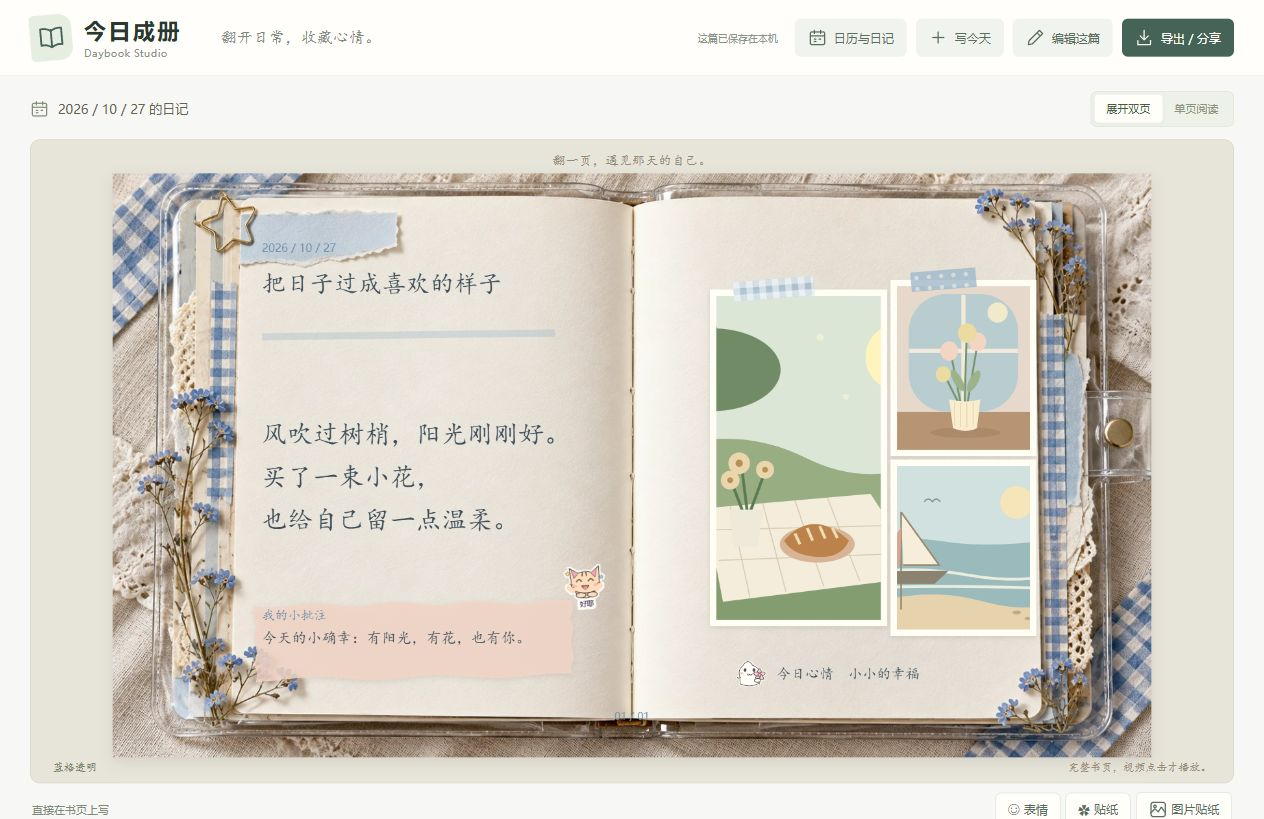
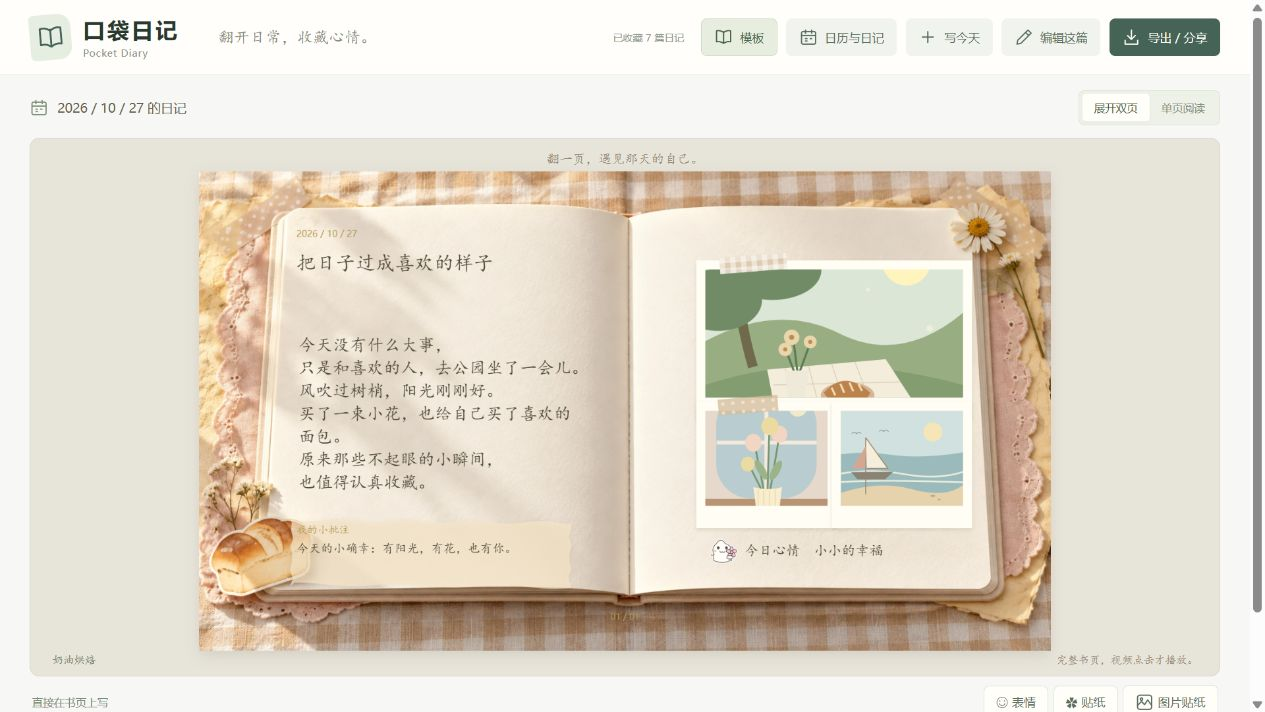
Improve diary editing and templates as Pocket Diary v0.4.0

diff --git a/src/main.ts b/src/main.ts
@@ -1,6 +1,7 @@
 import './style.css';
 import './notebook.css';
 import './inline-editor.css';
+import './workspace-ui.css';
 import { bodyPageRange, replaceBodyRange } from './text-editing';
 import { themes, initialDiary, localDate, sortEntries, calendarCells, slotCount, stickerPosition, type StickerPlacement, type Entry, type Diary, type Asset, type TextLine } from './model';
 import { prepare, release, seek, sampleAssets, type LoadedMedia } from './media';
@@ -28,6 +29,9 @@ let inlineEdit:{field:WritingField;start:number;end:number;prefix:string;suffix:
 let keyboardOpen=false,keyboardTab:'stickers'|'emoji'|'mood'='stickers',keyboardQuery='',keyboardCategory='推荐';
 let commandRange:{start:number;end:number}|undefined;
 let recentStickers:string[]=[];
+type ReaderView={id:string;page:number;ratio?:Diary['ratio'];reading:boolean};
+let savedView:ReaderView|undefined;
+try{const v=JSON.parse(sessionStorage.getItem('daybook-reader-view')??'null');if(v&&typeof v.id==='string')savedView={id:v.id,page:Number.isInteger(v.page)?Math.max(0,Math.min(499,v.page)):0,ratio:v.ratio==='portrait'||v.ratio==='landscape'?v.ratio:undefined,reading:v.reading!==false};}catch{}
 try{const saved=JSON.parse(localStorage.getItem('daybook-recent-stickers')??'[]');if(Array.isArray(saved))recentStickers=saved.filter((s:unknown)=>typeof s==='string').slice(0,16);}catch{}
 const smallScreen=window.matchMedia('(max-width:760px)');
 const displayDiary=():Diary=>({...diary,ratio:viewRatio??(smallScreen.matches?'portrait':'landscape')});
@@ -36,9 +40,9 @@ const requiredPages=()=>Math.max(1,Math.ceil(mediaCount()/slotCount(diary.layout
 let deferredInstall:Event & {prompt?:()=>Promise<void>}|undefined;
 const app=document.querySelector<HTMLDivElement>('#app')!;
 app.innerHTML=`
-<header class="topbar"><a class="brand" href="./" aria-label="今日成册首页"><span class="brand-mark">${icon('book')}</span><span>今日成册<small>Daybook Studio</small></span></a>
-<div class="top-caption">翻开日常，收藏心情。</div><nav aria-label="日记工具"><span id="save-state" role="status">准备好了</span><button class="quiet" id="calendar-open" aria-label="日历与日记">${icon('calendar')}<span>日历与日记</span></button><button class="quiet" id="new-entry" aria-label="写今天">${icon('plus')}<span>写今天</span></button><button class="quiet" id="mode-toggle">${icon('pen')}<span>编辑这篇</span></button><button class="primary" id="export-open">${icon('download')}<span>导出 / 分享</span></button></nav></header>
-<main class="workspace reading">
+<header class="topbar"><a class="brand" href="./" aria-label="口袋日记首页"><span class="brand-mark">${icon('book')}</span><span>口袋日记<small>Pocket Diary</small></span></a>
+<div class="top-caption">翻开日常，收藏心情。</div><nav aria-label="日记工具"><span id="save-state" role="status">准备好了</span><button class="quiet template-trigger" id="templates-open" aria-label="选择日记本模板" aria-expanded="false">${icon('book')}<span>模板</span></button><button class="quiet" id="calendar-open" aria-label="日历与日记">${icon('calendar')}<span>日历与日记</span></button><button class="quiet" id="new-entry" aria-label="写今天">${icon('plus')}<span>写今天</span></button><button class="quiet" id="mode-toggle" aria-label="编辑这篇">${icon('pen')}<span>编辑这篇</span></button><button class="primary" id="export-open" aria-label="导出分享">${icon('download')}<span>导出 / 分享</span></button></nav></header>
+<main class="workspace reading is-loading" aria-busy="true">
 <aside class="editor" aria-label="日记编辑">
 <div class="editor-intro"><h1>今天，想记点什么？</h1><p>照片、几句话，就是一页好日子。</p></div>
 <section><div class="section-title"><h2><span>1</span> 放入今天的素材</h2><span id="asset-count">0 / 20</span></div>
@@ -71,8 +75,15 @@ app.innerHTML=`
 <section class="sticker-keyboard" id="sticker-keyboard" role="region" aria-label="表情与贴纸键盘" hidden><div class="keyboard-heading"><div class="keyboard-tabs"><button data-keyboard-tab="stickers">贴到书页</button><button data-keyboard-tab="emoji">输入表情</button><button data-keyboard-tab="mood">今日心情</button></div><button id="keyboard-close" class="icon-button" aria-label="收起贴纸键盘">×</button></div><div class="keyboard-search"><input type="search" id="keyboard-search" aria-label="搜索表情与贴纸" placeholder="搜猫猫、抱抱、开心、花…"><button class="quiet" id="keyboard-upload" aria-label="添加自己的图片贴纸">＋ 图片</button></div><div id="keyboard-categories" class="keyboard-categories"></div><div id="keyboard-grid" class="keyboard-grid"></div><div class="keyboard-selected" id="keyboard-selected" hidden><label>大小<input id="quick-sticker-size" type="range" min="24" max="150"></label><label>旋转<input id="quick-sticker-rotation" type="range" min="-30" max="30"></label><button id="quick-sticker-remove" class="quiet">移除</button><button id="quick-sticker-done" class="quiet">摆好了</button></div><p id="keyboard-hint">点一下贴到书页，拖动到喜欢的位置。可直接粘贴图片。</p></section>
 <dialog id="export-dialog"><form method="dialog"><div class="dialog-heading"><div><h2>把今天带走</h2><p>保存日记，发到小红书或朋友圈。</p></div><button class="icon-button" aria-label="关闭">×</button></div></form><div class="export-choices"><button class="export-card" id="export-png">${icon('image')}<strong>日记图片</strong><span>保存当前页 · PNG</span></button><button class="export-card" id="export-video">${icon('play')}<strong>日记视频</strong><span>这篇的全部页 · 24 帧/秒</span></button></div><div class="export-settings"><label class="field">分享画幅<select id="export-ratio"><option value="portrait">9:16 竖屏 · 小红书 / 朋友圈</option><option value="landscape">16:9 横屏 · 展开双页</option></select></label><label class="field">视频格式<select id="format"><option value="mp4">MP4（优先）</option><option value="webm">WebM（备选）</option></select></label><label class="field">清晰度<select id="size"><option value="720">720p · 更轻巧</option><option value="1080">1080p · 更清晰</option></select></label></div><p class="field-hint">保存视频后，在小红书或微信相册发布。视频最长 3 分钟，导出期间请保持页面在前台。多视频页面以第一个视频的原声为主。</p><div id="export-progress" hidden><progress max="1" value="0"></progress><p role="status" id="progress-text"></p><button class="quiet" id="cancel-export">取消导出</button></div><p id="export-error" role="alert"></p><div id="export-result" hidden><video controls playsinline aria-label="导出成片预览"></video><a class="primary" download>保存视频</a><button class="quiet" id="share-video">分享视频</button><small>系统分享不可用时，请先保存到相册，再到小红书或朋友圈发布。</small></div></dialog>
 <dialog id="message-dialog"><h2 id="message-title"></h2><p id="message-body"></p><div class="dialog-actions"><button id="message-cancel" class="quiet">取消</button><button id="message-ok" class="primary">知道了</button></div></dialog>
-<div id="toast" role="status" class="toast" hidden></div>`;
+<div id="toast" role="status" class="toast" hidden></div>
+<section id="startup-state" class="startup-state" role="status" aria-live="polite"><div class="loading-notebook" aria-hidden="true"><i></i><i></i><i></i></div><h2 id="startup-title">正在翻开你的日记…</h2><p id="startup-description">照片和文字都保存在这台设备上。</p><div id="startup-actions" hidden><button class="primary" id="startup-retry">重新打开</button><button class="quiet" id="startup-import">导入备份</button></div></section>`;
 const $=<T extends HTMLElement=HTMLElement>(selector:string)=>document.querySelector<T>(selector)!;
+const templateBrowser=document.createElement('section');templateBrowser.id='template-browser';templateBrowser.className='template-browser';templateBrowser.hidden=true;templateBrowser.setAttribute('role','region');templateBrowser.setAttribute('aria-label','日记本模板与照片布局');
+templateBrowser.innerHTML='<button class="icon-button template-close" id="templates-close" aria-label="收起模板">×</button>';
+for(const selector of ['.edit-tools>.template-heading','#templates','.layout-heading'])templateBrowser.append($(selector));
+const templateTabs=document.createElement('div');templateTabs.className='template-tabs';templateTabs.setAttribute('aria-label','模板类型');templateTabs.innerHTML='<button data-template-tab="books" class="active" aria-pressed="true">本子样式</button><button data-template-tab="layout" aria-pressed="false">照片布局</button>';
+templateBrowser.insertBefore(templateTabs,templateBrowser.querySelector('#templates'));templateBrowser.querySelector<HTMLElement>('.layout-heading')!.hidden=true;
+app.append(templateBrowser);
 const canvas=$<HTMLCanvasElement>('#preview');const exportDialog=$<HTMLDialogElement>('#export-dialog');
 let toastTimer:ReturnType<typeof setTimeout>,resultURL='',resultBlob:Blob|undefined,resultName='';
 function toast(message:string){$('#toast').textContent=message;$('#toast').hidden=false;clearTimeout(toastTimer);toastTimer=setTimeout(()=>$('#toast').hidden=true,4500);}
@@ -87,7 +98,7 @@ function fill(){
 }
 function stop(){playing=false;cancelAnimationFrame(raf);for(const m of media)if(m.element instanceof HTMLVideoElement)m.element.pause();document.querySelectorAll<HTMLVideoElement>('.inline-video video').forEach(v=>v.pause());$('#page-hotspots').hidden=false;$('#play').innerHTML=`${icon('play')} 动画预览`;}
 function paint(){render(canvas,displayDiary(),pages,page,media,999,false,inlineEdit?.field);updateStickerSelection();positionPageEditor();}
-function refresh(thumbnails=false){
+function refresh(thumbnails=false,rebuildHotspots=true){
   const displayed=displayDiary();if(!inlineEdit){pages=pagesFor(displayed,requiredPages());page=Math.min(page,pages.length-1);}
   const [w,h]=dimensions(displayed);canvas.width=w;canvas.height=h;canvas.classList.toggle('portrait',displayed.ratio==='portrait');$('.book-viewport').classList.toggle('portrait',displayed.ratio==='portrait');
   const chronological=[...sortEntries(entries)].reverse(),index=chronological.findIndex(e=>e.id===entryId);
@@ -102,11 +113,12 @@ function refresh(thumbnails=false){
   const select=$<HTMLSelectElement>('#page-media');select.innerHTML='<option value="">按顺序自动匹配</option>'+assets.filter(a=>a.role!=='sticker').map(a=>`<option value="${esc(a.id)}">${esc(a.name)}</option>`).join('');select.value=diary.pageSlots[String(page)]?.[0]??diary.pageMedia[String(page)]??'';
   $('#reading-hint').textContent=reading?'翻一页，遇见那天的自己。':'点文字直接修改 · 点照片直接替换 · 拖动贴纸自由摆放';
   $('#page-description').textContent=reading?'完整书页，视频点击才播放。':'照片与视频都能放进每个画框。';
-  paint();buildHotspots();renderMoods();
+  paint();if(rebuildHotspots)buildHotspots();renderMoods();
   if(thumbnails)document.querySelectorAll<HTMLCanvasElement>('[data-thumb]').forEach(c=>{
     const layouts:Record<string,Diary['layout']>={sketch:'single',cream:'duo',travel:'trio',blue:'wall',forest:'single',film:'trio',chat:'single',pocket:'duo'};
     const td={...diary,ratio:'landscape',layout:layouts[c.dataset.thumb!],theme:c.dataset.thumb,pageSlots:{},pageMedia:{}} as Diary;render(c,td,pagesFor(td),0,media);
   });
+  if(initialized)try{sessionStorage.setItem('daybook-reader-view',JSON.stringify({id:entryId,page,ratio:viewRatio,reading}));}catch{}
 }
 let revision=0;
 async function persist(){
@@ -167,9 +179,15 @@ for(const key of ['date','title','body','note','mood','fit','seconds','decoratio
   $(`#${key}`).addEventListener('input',()=>{if(busy)return;const value=$<HTMLInputElement|HTMLSelectElement>(`#${key}`).value;(diary as unknown as Record<string,unknown>)[key]=['seconds','decoration'].includes(key)?Number(value):value;changed(key==='fit'||key==='decoration');});
 }
 $('#original-audio').onchange=()=>{diary.originalAudio=$<HTMLInputElement>('#original-audio').checked;changed();};
-document.querySelectorAll<HTMLButtonElement>('[data-theme]').forEach(b=>b.onclick=()=>{if(busy)return;finishInlineEdit();diary.theme=b.dataset.theme as Diary['theme'];if(diary.theme==='pocket')diary.ratio='portrait';changed();});
+document.querySelectorAll<HTMLButtonElement>('[data-theme]').forEach(b=>b.onclick=()=>{if(busy)return;finishInlineEdit();diary.theme=b.dataset.theme as Diary['theme'];if(diary.theme==='pocket')diary.ratio='portrait';changed();closeTemplates();toast(`已换成${themes.find(t=>t.id===diary.theme)!.name}，文字和照片已保留`);});
+function closeTemplates(){templateBrowser.hidden=true;$('#templates-open').setAttribute('aria-expanded','false');}
+$('#templates-open').onclick=()=>{if(busy)return;if(!templateBrowser.hidden){closeTemplates();return;}finishInlineEdit();closeKeyboard();refresh(true);templateBrowser.hidden=false;$('#templates-open').setAttribute('aria-expanded','true');};
+$('#templates-close').onclick=closeTemplates;
+templateTabs.onclick=e=>{const b=(e.target as HTMLElement).closest<HTMLButtonElement>('[data-template-tab]');if(!b)return;const layout=b.dataset.templateTab==='layout';$('#templates').hidden=layout;$('.layout-heading').hidden=!layout;templateTabs.querySelectorAll('button').forEach(button=>{const selected=button===b;button.classList.toggle('active',selected);button.setAttribute('aria-pressed',String(selected));});};
+document.addEventListener('pointerdown',e=>{if(!templateBrowser.hidden&&e.target instanceof Element&&!e.target.closest('#template-browser,#templates-open'))closeTemplates();},true);
+document.addEventListener('keydown',e=>{if(e.key==='Escape'&&!templateBrowser.hidden){closeTemplates();$('#templates-open').focus({preventScroll:true});}});
 document.querySelectorAll<HTMLButtonElement>('[data-ratio]').forEach(b=>b.onclick=()=>{if(busy)return;finishInlineEdit();viewRatio=b.dataset.ratio as Diary['ratio'];stop();refresh();});
-document.querySelectorAll<HTMLButtonElement>('[data-layout]').forEach(b=>b.onclick=()=>{if(busy)return;diary.layout=b.dataset.layout as Diary['layout'];diary.pageSlots={};diary.pageMedia={};const count=pagesFor(displayDiary(),Math.max(1,Math.ceil(mediaCount()/slotCount(diary.layout)))).length;for(const s of diary.stickers)s.page=Math.min(s.page,count-1);selectedSticker='';changed(true);});
+document.querySelectorAll<HTMLButtonElement>('[data-layout]').forEach(b=>b.onclick=()=>{if(busy)return;diary.layout=b.dataset.layout as Diary['layout'];diary.pageSlots={};diary.pageMedia={};const count=pagesFor(displayDiary(),Math.max(1,Math.ceil(mediaCount()/slotCount(diary.layout)))).length;for(const s of diary.stickers)s.page=Math.min(s.page,count-1);selectedSticker='';changed(true);closeTemplates();});
 $('#page-media').onchange=()=>{const ids=diary.pageSlots[String(page)]??[];ids[0]=$<HTMLSelectElement>('#page-media').value;diary.pageSlots[String(page)]=ids;delete diary.pageMedia[String(page)];changed();};
 $('#prev').onclick=()=>void turn(-1);$('#next').onclick=()=>void turn(1);
 $('#assets').onclick=e=>{
@@ -215,8 +233,8 @@ async function createEntry(date=localDate(),sample=false){
 $('#new-diary').onclick=()=>void createEntry();
 $('#new-entry').onclick=async()=>{const today=sortEntries(entries).find(e=>e.diary.date===localDate());if(today){await openEntry(today);setMode(false);}else await createEntry();};
 $('#sample').onclick=()=>void createEntry(localDate(),true);
-$('#backup').onclick=async()=>{if(busy)return;try{await persist();toast('正在打包这篇日记…');download(await pack(diary,assets),`今日成册-${diary.date}.zip`);toast('这篇日记已备份，包含文字与原始素材');}catch(e){toast((e as Error).message);}};
-$('#backup-notebook').onclick=async()=>{if(busy)return;busy=true;try{await persist();toast('正在打包整本日记…');download(await packNotebook(entries),`今日成册-整本日记-${localDate()}.zip`);toast('整本日记备份已准备好');}catch(e){toast((e as Error).message);}finally{busy=false;}};
+$('#backup').onclick=async()=>{if(busy)return;try{await persist();toast('正在打包这篇日记…');download(await pack(diary,assets),`口袋日记-${diary.date}.zip`);toast('这篇日记已备份，包含文字与原始素材');}catch(e){toast((e as Error).message);}};
+$('#backup-notebook').onclick=async()=>{if(busy)return;busy=true;try{await persist();toast('正在打包整本日记…');download(await packNotebook(entries),`口袋日记-整本日记-${localDate()}.zip`);toast('整本日记备份已准备好');}catch(e){toast((e as Error).message);}finally{busy=false;}};
 $('#import-project').onclick=()=>$<HTMLInputElement>('#project-input').click();
 $<HTMLInputElement>('#project-input').onchange=async e=>{
   const file=(e.target as HTMLInputElement).files?.[0];if(!file)return;
@@ -225,13 +243,13 @@ $<HTMLInputElement>('#project-input').onchange=async e=>{
     const known=new Set(entries.map(e=>e.id));let firstImported:string|undefined;
     for(const raw of imported){const entry={...raw,id:known.has(raw.id)?crypto.randomUUID():raw.id};await saveEntry(entry);entries.push(entry);known.add(entry.id);firstImported??=entry.id;}
     entries=sortEntries(entries);busy=false;$<HTMLDialogElement>('#calendar-dialog').close();if(firstImported){const last=entries.find(e=>e.id===firstImported)!;await openEntry(last);}
-    toast(`已导入 ${imported.length} 篇日记，原有记录保留`);
+    if(!initialized)completeStartup();toast(`已导入 ${imported.length} 篇日记，原有记录保留`);
   }catch(e){toast((e as Error).message);}finally{busy=false;(e.target as HTMLInputElement).value='';}
 };
 $('#export-open').onclick=()=>{finishInlineEdit();closeKeyboard();stop();refresh();$('#export-error').textContent='';$<HTMLSelectElement>('#export-ratio').value=displayDiary().ratio;exportDialog.showModal();};
 $('#export-png').onclick=async()=>{
   const output=document.createElement('canvas');const d={...diary,ratio:$<HTMLSelectElement>('#export-ratio').value as Diary['ratio']};const [w,h]=dimensions(d);output.width=w;output.height=h;const pp=pagesFor(d,requiredPages());render(output,d,pp,Math.min(page,pp.length-1),media);
-  output.toBlob(blob=>{if(blob){download(blob,`今日成册-${diary.date}-${page+1}.png`);toast('日记图片已准备好');}else $('#export-error').textContent='图片导出失败，请重试';},'image/png');
+  output.toBlob(blob=>{if(blob){download(blob,`口袋日记-${diary.date}-${page+1}.png`);toast('日记图片已准备好');}else $('#export-error').textContent='图片导出失败，请重试';},'image/png');
 };
 $('#export-video').onclick=async()=>{
   if(busy)return;busy=true;stop();controller=new AbortController();$('#export-error').textContent='';$('#export-progress').hidden=false;$('#export-result').hidden=true;
@@ -245,7 +263,7 @@ $('#export-video').onclick=async()=>{
     const exportPages=pagesFor(exported,requiredPages());
     const blob=await exportVideo(exported,exportPages,media,{format,size:Number($<HTMLSelectElement>('#size').value),signal:controller.signal,progress:(v,msg)=>{$<HTMLProgressElement>('progress').value=v;$('#progress-text').textContent=`${msg} · ${Math.round(v*100)}%`;}});
     if(resultURL)URL.revokeObjectURL(resultURL);resultURL=URL.createObjectURL(blob);
-    resultBlob=blob;resultName=`今日成册-${diary.date}.${format}`;
+    resultBlob=blob;resultName=`口袋日记-${diary.date}.${format}`;
     $<HTMLVideoElement>('#export-result video').src=resultURL;const a=$<HTMLAnchorElement>('#export-result a');a.href=resultURL;a.download=resultName;$('#export-result').hidden=false;
     $('#progress-text').textContent=`视频生成完成 · ${(blob.size/1024/1024).toFixed(1)} MB`;
   }catch(e){$('#export-error').textContent=(e as Error).name==='AbortError'?'已取消导出，日记仍保留。':(e as Error).message;}
@@ -254,13 +272,15 @@ $('#export-video').onclick=async()=>{
 $('#cancel-export').onclick=()=>controller?.abort();
 exportDialog.addEventListener('cancel',e=>{if(busy)e.preventDefault();});exportDialog.querySelector('form')!.addEventListener('submit',e=>{if(busy)e.preventDefault();});
 window.addEventListener('beforeinstallprompt',e=>{e.preventDefault();deferredInstall=e;});
-$('#install').onclick=async()=>{if(deferredInstall?.prompt)await deferredInstall.prompt();else await message('把今日成册放到桌面','电脑：在 Chrome / Edge 菜单中选择“安装此应用”。iPhone：用 Safari 打开 HTTPS 地址，点分享 → 添加到主屏幕。Android：在浏览器菜单中选择安装或添加到主屏幕。离线使用前请先联网打开一次。');};
+$('#install').onclick=async()=>{if(deferredInstall?.prompt)await deferredInstall.prompt();else await message('把口袋日记放到桌面','电脑：在 Chrome / Edge 菜单中选择“安装此应用”。iPhone：用 Safari 打开 HTTPS 地址，点分享 → 添加到主屏幕。Android：在浏览器菜单中选择安装或添加到主屏幕。离线使用前请先联网打开一次。');};
 window.addEventListener('beforeunload',e=>{if(busy)controller?.abort();if(unsaved){e.preventDefault();e.returnValue='';}});
+document.addEventListener('visibilitychange',()=>{if(document.visibilityState==='hidden'&&unsaved)void persist().catch(()=>{});});
 
 function setMode(read:boolean){
   finishInlineEdit();closeKeyboard();
   reading=read;stop();if(read)selectedSticker='';$('.workspace').classList.toggle('reading',read);
   $('#mode-toggle').innerHTML=`${icon(read?'pen':'book')}<span>${read?'编辑这篇':'完成 · 阅读'}</span>`;
+  $('#mode-toggle').setAttribute('aria-label',read?'编辑这篇':'完成并阅读');
   refresh();
 }
 $('#mode-toggle').onclick=()=>setMode(!reading);
@@ -305,6 +325,7 @@ $('#calendar-write').onclick=async()=>{if(busy)return;$<HTMLDialogElement>('#cal
 const fieldNames={title:'日记标题',body:'今天的日记',note:'我的小批注',mood:'今日心情'};
 function positionPageEditor(){
   if(!inlineEdit)return;const d=displayDiary(),r=editRegions(d).find(r=>r.kind===inlineEdit!.field)!;
+  document.querySelectorAll<HTMLButtonElement>('[data-field]').forEach(b=>b.classList.toggle('active-field',b.dataset.field===inlineEdit?.field));
   const [W,H]=dimensions(d),bounds=canvas.getBoundingClientRect(),scale=bounds.width/W;
   $('#page-editor-shell').style.cssText=hotspotStyle(r,W,H);
   const input=$<HTMLTextAreaElement>('#page-editor');
@@ -313,7 +334,7 @@ function positionPageEditor(){
   input.style.lineHeight=String(inlineEdit.field==='body'?writingStyle(d).bodyLineHeight/writingStyle(d).bodyFontSize:1.5);input.style.color=writingStyle(d).ink;
   input.style.paddingTop=inlineEdit.field==='note'?`${27*scale}px`:'0px';
 }
-function finishInlineEdit(){if(!inlineEdit)return;inlineEdit=undefined;commandRange=undefined;$('#page-editor-shell').hidden=true;$('.book-viewport').classList.remove('is-writing');$('#inline-done').hidden=true;$('#inline-status').textContent='直接在书页上写';fill();refresh();}
+function finishInlineEdit(rebuild=true){if(!inlineEdit)return;inlineEdit=undefined;commandRange=undefined;$('#page-editor-shell').hidden=true;$('.book-viewport').classList.remove('is-writing');$('#inline-done').hidden=true;$('#inline-status').textContent='直接在书页上写';fill();refresh(false,rebuild);void persist().catch(error=>toast(`保存失败：${(error as Error).message}。请备份日记。`));}
 function beginInlineEdit(field:WritingField|'mood'){
   if(busy)return;if(field==='mood'){finishInlineEdit();openKeyboard('mood');return;}
   if(inlineEdit?.field===field){$('#page-editor').focus();return;}
@@ -337,9 +358,14 @@ $('#page-editor').oninput=e=>{
 };
 $('#page-editor').addEventListener('compositionend',()=>applyInlineValue());
 $('#page-editor').onkeydown=e=>{if(e.isComposing)return;if(e.key==='Escape'||((e.ctrlKey||e.metaKey)&&e.key==='Enter')){e.preventDefault();finishInlineEdit();}if((e.ctrlKey||e.metaKey)&&e.key===';'){e.preventDefault();openKeyboard('stickers');}};
-$('#inline-done').onclick=finishInlineEdit;
+$('#inline-done').onclick=()=>finishInlineEdit();
 new ResizeObserver(()=>positionPageEditor()).observe(canvas);
-document.addEventListener('pointerdown',e=>{if(inlineEdit&&!(e.target as HTMLElement).closest('.book-viewport,.page-writing-tools,.sticker-keyboard'))finishInlineEdit();},true);
+document.addEventListener('pointerdown',e=>{
+  if(!inlineEdit||!(e.target instanceof Element))return;
+  if(e.target.closest('#page-editor-shell,.page-writing-tools,.sticker-keyboard,[data-field]'))return;
+  // Keep the clicked node alive until its click handler has run (video/upload/toolbar).
+  finishInlineEdit(false);
+},true);
 
 const emojiGroups:Record<string,string[]>={
   '心情':['🥰','🥹','😆','😊','😍','😘','🤗','🥺','😭','😤','😴','🫠','🫶','💪','✌','🙌','🧡','💛','💚','💙','💜','🩷','🤍','💖','✨','💫','⭐','🌈'],
@@ -402,7 +428,7 @@ function hotspotStyle(r:{x:number;y:number;w:number;h:number;rotation?:number},W
 function buildHotspots(){
   const host=$('#page-hotspots');host.querySelectorAll('video').forEach(v=>v.pause());
   const d=displayDiary(),[W,H]=dimensions(d);
-  host.innerHTML=editRegions(d).map(r=>`<button class="field-hotspot" data-field="${r.kind}" style="${hotspotStyle(r,W,H)}" aria-label="点击修改${fieldNames[r.kind]}"><span>${icon('pen')} 修改${fieldNames[r.kind]}</span></button>`).join('')+
+  host.innerHTML=editRegions(d).map(r=>`<button class="field-hotspot ${r.kind===inlineEdit?.field?'active-field':''}" data-field="${r.kind}" style="${hotspotStyle(r,W,H)}" aria-label="点击修改${fieldNames[r.kind]}"><span>${icon('pen')} 修改${fieldNames[r.kind]}</span></button>`).join('')+
     mediaRects(d).map((r,slot)=>{
       const m=mediaForSlot(d,page,slot,media),label=`第 ${slot+1} 个照片或视频位置`;
       return m?.asset.type==='video'?`<div class="inline-video" style="${hotspotStyle(r,W,H)}"><video src="${esc(m.url)}" controls playsinline preload="metadata" aria-label="播放${label}" style="object-fit:${d.fit}"></video><button class="video-start" data-play-slot="${slot}" aria-label="播放第 ${slot+1} 个视频">${icon('play')}<span>点击播放</span></button><button class="replace-media" data-slot="${slot}" aria-label="更换${label}">${icon('image')}<span>更换</span></button></div>`:
@@ -465,17 +491,25 @@ function renderMoods(){const current=getMoodSticker(diary.mood);$('#mood-picker'
 $('#mood-picker').onclick=e=>{const b=(e.target as HTMLElement).closest<HTMLButtonElement>('[data-mood]');if(!b)return;diary.mood=b.dataset.mood!;fill();changed();};
 $('#share-video').onclick=async()=>{
   if(!resultBlob)return;const file=new File([resultBlob],resultName,{type:resultBlob.type});
-  if(navigator.canShare?.({files:[file]}))try{await navigator.share({files:[file],title:diary.title||'今日成册'});}catch(e){if((e as Error).name!=='AbortError')toast('系统分享未完成，请先保存视频，再到小红书或微信发布');}
+  if(navigator.canShare?.({files:[file]}))try{await navigator.share({files:[file],title:diary.title||'口袋日记'});}catch(e){if((e as Error).name!=='AbortError')toast('系统分享未完成，请先保存视频，再到小红书或微信发布');}
   else {download(resultBlob,resultName);toast('请保存视频，再从小红书或微信相册发布');}
 };
+function completeStartup(restore=false){
+  const previous=restore&&savedView?.id===entryId?savedView:undefined;
+  viewRatio=previous?.ratio;initialized=true;busy=false;$('.workspace').inert=false;$('.topbar').inert=false;
+  $('.workspace').classList.remove('is-loading');$('.workspace').setAttribute('aria-busy','false');$('#startup-state').hidden=true;
+  fill();setMode(previous?.reading??true);page=Math.min(previous?.page??0,pages.length-1);renderStickerLibrary();refresh(true);
+}
+$('#startup-retry').onclick=()=>location.reload();
+$('#startup-import').onclick=()=>$<HTMLInputElement>('#project-input').click();
 async function boot(){
-  busy=true;$('.workspace').inert=true;$('.topbar').inert=true;
-  try{await Promise.all([prepareCatalog(),prepareNotebookAssets()]);const stored=await loadEntries();entries=stored.entries;
-    const current=entries.find(e=>e.id===stored.active)??entries[0];
+  busy=true;$('.workspace').inert=true;$('.topbar').inert=true;$('#save-state').textContent='正在打开…';
+  try{const [,,stored]=await Promise.all([prepareCatalog(),prepareNotebookAssets(),loadEntries()]);entries=stored.entries;
+    const current=entries.find(e=>e.id===savedView?.id)??entries.find(e=>e.id===stored.active)??entries[0];
     if(current){entryId=current.id;diary=structuredClone(current.diary);await attach(current.assets.map(a=>({...a})));$('#save-state').textContent=`已收藏 ${entries.length} 篇日记`;}
     else{await attach(sampleAssets());entries=[{id:entryId,diary:structuredClone(diary),assets,updatedAt:Date.now()}];await saveEntry(entries[0]);$('#save-state').textContent='示例日记';}}
-  catch(e){toast(`恢复失败：${(e as Error).message}。可以导入工程包恢复。`);await attach(sampleAssets());}
-  initialized=true;busy=false;$('.workspace').inert=false;$('.topbar').inert=false;fill();setMode(true);renderStickerLibrary();refresh(true);
+  catch(e){busy=false;$('#startup-state').classList.add('failed');$('#startup-title').textContent='日记暂时没有打开';$('#startup-description').textContent=`${(e as Error).message}。请重试，或导入之前的备份。`;$('#startup-actions').hidden=false;$('#save-state').textContent='等待恢复';return;}
+  completeStartup(true);
   if('serviceWorker' in navigator&&import.meta.env.PROD)navigator.serviceWorker.register(`${import.meta.env.BASE_URL}sw.js`).catch(()=>toast('离线缓存暂不可用，联网状态仍可继续使用'));
 }
 void boot();

diff --git a/src/renderer.ts b/src/renderer.ts
@@ -20,15 +20,15 @@ function geometry(d:Diary):Geometry {
     const left=d.theme==='forest'?228:d.theme==='blue'?195:145;
     return {title:{x:left,y:105,w:780-left,h:125},body:{x:left,y:808,w:780-left,h:416,size:34,step:52,lines:8},note:{x:left,y:1310,w:780-left,h:126},mood:{x:left,y:735,w:780-left,h:55},media:{...media,x:left,w:780-left}};
   }
-  const common:Geometry={title:{x:169,y:127,w:539,h:118},body:{x:185,y:292,w:518,h:311,size:32,step:44,lines:7},note:{x:183,y:669,w:505,h:100},mood:{x:956,y:748,w:448,h:55},media:{x:920,y:176,w:514,h:525}};
+  const common:Geometry={title:{x:169,y:127,w:539,h:118},body:{x:185,y:292,w:518,h:311,size:32,step:44,lines:7},note:{x:183,y:669,w:505,h:100},mood:{x:932,y:698,w:482,h:64},media:{x:920,y:176,w:514,h:485}};
   switch(d.theme){
-    case 'cream':return {...common,title:{x:183,y:145,w:520,h:108},body:{x:187,y:305,w:515,h:304,size:32,step:43,lines:7},media:{x:960,y:206,w:466,h:445}};
-    case 'travel':return {...common,title:{x:247,y:137,w:460,h:117},body:{x:247,y:309,w:455,h:304,size:31,step:43,lines:7},note:{x:247,y:679,w:455,h:97},media:{x:903,y:184,w:435,h:494}};
-    case 'blue':return {...common,title:{x:230,y:143,w:480,h:115},body:{x:229,y:308,w:475,h:309,size:31,step:44,lines:7},note:{x:230,y:677,w:470,h:98},media:{x:930,y:174,w:483,h:529}};
-    case 'forest':return {...common,title:{x:251,y:139,w:453,h:114},body:{x:255,y:308,w:448,h:309,size:31,step:44,lines:7},note:{x:253,y:677,w:450,h:97},media:{x:912,y:190,w:490,h:494}};
-    case 'film':return {...common,title:{x:162,y:137,w:548,h:111},body:{x:180,y:302,w:524,h:306,size:31,step:43,lines:7},media:{x:903,y:250,w:542,h:335}};
-    case 'chat':return {...common,title:{x:182,y:133,w:523,h:109},body:{x:182,y:299,w:520,h:309,size:32,step:44,lines:7},media:{x:928,y:162,w:507,h:540}};
-    case 'pocket':return {...common,title:{x:169,y:128,w:538,h:113},body:{x:182,y:307,w:518,h:304,size:32,step:43,lines:7},media:{x:925,y:188,w:506,h:500}};
+    case 'cream':return {...common,title:{x:183,y:145,w:520,h:108},body:{x:187,y:305,w:515,h:304,size:32,step:43,lines:7},mood:{x:958,y:690,w:465,h:64},media:{x:951,y:184,w:484,h:444}};
+    case 'travel':return {...common,title:{x:247,y:137,w:460,h:117},body:{x:247,y:309,w:455,h:304,size:31,step:43,lines:7},note:{x:247,y:679,w:455,h:97},media:{x:903,y:184,w:435,h:474}};
+    case 'blue':return {...common,title:{x:230,y:143,w:480,h:115},body:{x:229,y:308,w:475,h:309,size:31,step:44,lines:7},note:{x:230,y:677,w:470,h:98},media:{x:930,y:174,w:483,h:486}};
+    case 'forest':return {...common,title:{x:251,y:139,w:453,h:114},body:{x:255,y:308,w:448,h:309,size:31,step:44,lines:7},note:{x:253,y:677,w:450,h:97},media:{x:912,y:190,w:490,h:470}};
+    case 'film':return {...common,title:{x:162,y:137,w:548,h:111},body:{x:180,y:302,w:524,h:306,size:31,step:43,lines:7},mood:{x:933,y:650,w:482,h:64},media:{x:903,y:235,w:542,h:350}};
+    case 'chat':return {...common,title:{x:182,y:133,w:523,h:109},body:{x:182,y:299,w:520,h:309,size:32,step:44,lines:7},media:{x:928,y:162,w:507,h:498}};
+    case 'pocket':return {...common,title:{x:169,y:128,w:538,h:113},body:{x:182,y:307,w:518,h:304,size:32,step:43,lines:7},media:{x:925,y:188,w:506,h:472}};
     default:return common;
   }
 }
@@ -221,7 +221,7 @@ function writing(c:Ctx,d:Diary,t:Theme,g:Geometry,content:TextLine[],time:number
   const offset=short?Math.max(0,(g.body.h-(lines.length-1)*step-bodySize)/2):0;
   if(editingField!=='body')lines.forEach((l,i)=>{c.save();c.globalAlpha=animate?Math.max(0,Math.min(1,(time-i*.25)*3)):1;txt(c,l.text,g.body.x,g.body.y+offset+bodySize+i*step,bodySize,t.ink);c.restore();});
   if(editingField!=='note'){txt(c,d.theme==='travel'?'路上的小记':d.theme==='film'?'观后感 / 小批注':'我的小批注',g.note.x,g.note.y+11,20,t.accent);c.font=`${d.ratio==='portrait'?26:23}px ${hand}`;wrapText(d.note||'把平凡的一天，认真收好。',g.note.w-5,s=>c.measureText(s).width).slice(0,2).forEach((s,i)=>txt(c,s,g.note.x,g.note.y+47+i*31,d.ratio==='portrait'?26:23,t.ink));}
-  if(editingField!=='mood'){const mx=g.mood.x,my=g.mood.y;if(g.mood.w>250){drawSticker(c,getMoodSticker(d.mood),mx+25,my+22,57);txt(c,`今日心情  ${d.mood}`,mx+67,my+31,22,t.ink);}else{txt(c,'今日心情',mx,my+6,20,t.accent);drawSticker(c,getMoodSticker(d.mood),mx+28,my+52,61);txt(c,d.mood.slice(0,7),mx+65,my+57,19,t.ink);}}
+  if(editingField!=='mood'){const mx=g.mood.x,my=g.mood.y;if(g.mood.w>250){drawSticker(c,getMoodSticker(d.mood),mx+25,my+22,64);txt(c,`今日心情  ${d.mood}`,mx+67,my+31,26,t.ink);}else{txt(c,'今日心情',mx,my+6,20,t.accent);drawSticker(c,getMoodSticker(d.mood),mx+28,my+52,61);txt(c,d.mood.slice(0,7),mx+65,my+57,19,t.ink);}}
 }
 function userStickers(c:Ctx,d:Diary,page:number,media:LoadedMedia[],W:number,H:number){
   for(const s of d.stickers??[]){if(s.page!==page)continue;const pos=stickerPosition(s,d.ratio),x=pos.x*W,y=pos.y*H;if(s.kind.startsWith('asset:')){const image=media.find(m=>m.asset.id===s.kind.slice(6));if(image&&image.element instanceof HTMLImageElement){const e=image.element,scale=s.size/Math.max(e.naturalWidth,e.naturalHeight);c.save();c.translate(x,y);c.rotate(s.rotation);c.drawImage(e,-e.naturalWidth*scale/2,-e.naturalHeight*scale/2,e.naturalWidth*scale,e.naturalHeight*scale);c.restore();}}else drawSticker(c,s.kind,x,y,s.size,s.rotation);}

diff --git a/src/workspace-ui.css b/src/workspace-ui.css
@@ -1,0 +1,8 @@
+.template-trigger{background:#e8eedf!important;color:#466344!important;border:1px solid #cddbc7!important}.template-trigger[aria-expanded=true]{background:#d8e4ce!important}
+.template-tabs{display:flex;gap:6px;border-bottom:1px solid #e4e8d9;padding-bottom:10px;margin:0 0 12px}.template-tabs button{padding:7px 13px;font-size:12px;color:#7b8b70;border-radius:6px}.template-tabs button.active{background:#e8eedf;color:#456344;font-weight:600}
+.template-browser{position:fixed;z-index:34;right:20px;top:85px;width:470px;max-width:calc(100vw - 24px);max-height:calc(100dvh - 105px);overflow:auto;overscroll-behavior:contain;padding:22px;background:#fffef9;border:1px solid #d9dfcd;border-radius:14px;box-shadow:0 12px 45px #26362b24;scrollbar-width:thin}.template-close{position:absolute;right:12px;top:12px;font-size:22px;color:#7f8d78}.template-browser>.template-heading{padding-right:25px;margin-bottom:15px}.template-browser>.template-heading>span{display:none}.template-browser h2{font-size:18px}.template-browser .template-heading p{font-size:12px;line-height:1.7;max-width:340px}.template-browser .templates{display:grid;grid-template-columns:repeat(2,minmax(0,1fr));gap:10px}.template-browser .template{min-width:0;padding:5px;border-radius:7px}.template-browser .template-name{font-size:12px}.template-browser .template small{font-size:10px;line-height:1.5}.template-browser .template canvas{width:100%;aspect-ratio:16/9}.template-browser .layout-heading{margin:16px 0 0;padding-top:16px}.template-browser .layout-heading h2{font-size:14px}.template-browser .layout-heading p{font-size:11px;line-height:1.6}.template-browser .layout-picker{display:grid;grid-template-columns:1fr 1fr;gap:7px}.template-browser .layout-picker button{padding:9px 5px}
+.workspace.is-loading{visibility:hidden}.startup-state{position:absolute;z-index:20;top:150px;left:50%;transform:translateX(-50%);width:min(430px,calc(100vw - 40px));padding:45px 28px;text-align:center;background:#fbfcf7;border:1px solid #e4e8dc;border-radius:12px;box-shadow:0 12px 40px #6f82600a}.startup-state h2{font-size:18px;font-weight:500;color:#52705a;margin:20px 0 10px}.startup-state p{font-size:12px;color:#84927c;line-height:1.9;margin:0}.startup-state #startup-actions{display:flex;justify-content:center;gap:10px;margin-top:20px}.loading-notebook{position:relative;margin:auto;width:96px;height:70px;border-radius:5px 10px 10px 5px;border:2px solid #a5b79d;background:linear-gradient(90deg,#f8f7eb 48%,#b9c5af 50%,#fffef8 52%);transform:rotate(-4deg);box-shadow:0 3px 0 #e1e6d5}.loading-notebook i{position:absolute;display:block;height:2px;width:27px;left:11px;background:#cad4be;animation:page-pulse 1.3s ease-in-out infinite}.loading-notebook i:nth-child(1){top:22px}.loading-notebook i:nth-child(2){top:34px;animation-delay:.15s}.loading-notebook i:nth-child(3){top:46px;animation-delay:.3s}.startup-state.failed .loading-notebook{filter:grayscale(.5)}.startup-state.failed .loading-notebook i{animation:none}
+@keyframes page-pulse{0%,100%{opacity:.35}50%{opacity:1}}
+@media(max-width:760px){.topbar{gap:6px}.topbar nav{gap:3px}.topbar nav #mode-toggle span,.topbar nav #export-open span{display:none}.topbar nav #mode-toggle,.topbar nav #export-open{width:32px;min-width:32px;justify-content:center;padding:7px}.topbar nav .template-trigger{display:flex;gap:3px;font-size:11px;padding:6px 7px;min-width:48px}.topbar nav .template-trigger svg{width:14px}.brand{font-size:16px}.brand-mark{width:26px}.template-browser{top:72px;right:7px;left:7px;width:auto;max-width:none;max-height:calc(100dvh - 84px);padding:18px 13px;border-radius:12px}.template-browser h2{font-size:17px}.template-browser .template-heading{margin-bottom:10px}.template-browser .templates{gap:8px}.startup-state{top:125px;padding:32px 20px}}
+@media(prefers-reduced-motion:reduce){.loading-notebook i{animation:none}}
+@media(max-width:760px){.topbar nav #export-open svg{display:block;width:17px;height:17px}}

diff --git a/src/inline-editor.css b/src/inline-editor.css
@@ -1,7 +1,7 @@
 #page-editor-shell{position:absolute;z-index:5;border:1.5px solid #6e9c8c;border-radius:4px;box-shadow:0 0 0 3px #fffaf063;overflow:hidden;background:transparent}
 #page-editor{display:block;resize:none;width:100%;height:100%;border:0;border-radius:0;outline:0;box-shadow:none;background:transparent;padding:0 3px 3px;overflow:auto;white-space:pre-wrap;overflow-wrap:anywhere;caret-color:#49795f;scrollbar-width:thin;scrollbar-color:#98af9b transparent}
 #page-editor::placeholder{color:#869c8b}#page-editor::selection{background:#cde4d5}
-.book-viewport.is-writing .field-hotspot{visibility:hidden}
+.book-viewport.is-writing .field-hotspot.active-field{visibility:hidden}
 .page-writing-tools{display:flex;align-items:center;justify-content:space-between;gap:10px;max-width:1200px;margin:9px auto 5px;color:#7c8b77;font-size:11px}
 .page-writing-tools>div{display:flex;align-items:center;gap:5px}.page-writing-tools .quiet{font-size:12px;background:#fffef9;padding:7px 12px;border:1px solid #dce4d8;min-height:34px;gap:4px;display:inline-flex;align-items:center}.page-writing-tools #inline-done{background:#4c715e;color:white;border-color:#4c715e}
 .sticker-keyboard{position:fixed;z-index:35;right:22px;bottom:20px;width:410px;max-width:calc(100vw - 24px);background:#fffefa;border:1px solid #dedfce;border-radius:16px;box-shadow:0 12px 50px #25342d30;overflow:hidden;padding:12px}

diff --git a/index.html b/index.html
@@ -7,7 +7,7 @@
   <meta name="description" content="放入照片和视频，写下今天，把生活做成一本会动的日记。开源、本地处理。" />
   <link rel="icon" href="./icon.svg" type="image/svg+xml" />
   <link rel="manifest" href="./manifest.webmanifest" />
-  <title>今日成册 · Daybook Studio</title>
+  <title>口袋日记 · Pocket Diary</title>
 </head>
 <body>
   <div id="app"></div>

diff --git a/README.md b/README.md
@@ -1,17 +1,19 @@
-# 今日成册 · Daybook Studio
+# 口袋日记 · Pocket Diary
 
 翻开某一天，看到完整的日记；想看视频时，再点一下。照片、手写文字、小表情与手账拼贴，收藏每天的生活。
 
-一个本地优先的开源电子日记与手账项目。v0.3 可以直接在书页里写字，在书页旁打开贴纸键盘，按日期翻阅，也能导出图片或视频，保存后发到小红书、朋友圈。基础使用无需账号、个人后端或 AI 密钥。
+一个本地优先的开源电子日记与手账项目。v0.4 可以直接在书页里写字，在顶部选择模板，在书页旁打开贴纸键盘，按日期翻阅，也能导出图片或视频，保存后发到小红书、朋友圈。基础使用无需账号、个人后端或 AI 密钥。
 
 [在线使用](https://yao2943867657-dev.github.io/daybook-studio/) · [源码](https://github.com/yao2943867657-dev/daybook-studio) · [版本下载](https://github.com/yao2943867657-dev/daybook-studio/releases)
 
-![今日成册工作台](docs/studio.png)
+![口袋日记工作台](docs/studio.png)
 
 ## 可以做什么
 
 - 多篇日记按日期收藏：日历标记已有记录的日期，支持跳到某天、继续写今天和前后翻篇；长日记自动续页。
 - 默认显示完整书页，电脑展开双页，窄屏默认单页阅读；可手动切换。视频在页内点击后播放。
+- 顶部常驻“模板”入口，阅读时也能挑选本子样式与 1—4 格照片布局；更换模板保留日记和素材。
+- 刷新显示加载提示，再恢复当前标签页上次的日记、页码、画幅和阅读/编辑模式；读取失败可重试或导入备份，不把原记录替换为示例。
 - 点击标题、正文或批注，直接在原位置输入，自动保存；正文只编辑当前页对应的内容，其他页保留。心情在书页旁选择，不再打开大对话框。
 - 8 款本子：晴野方格、奶油烘焙、旅途票根、蓝格透明、森系标本、深夜胶片、透明六环、樱粉线圈。使用原创生成的实物质感底图，区分透明封套、金属活页、布面、纤维纸、撕纸与拼贴；内容与影像仍由程序单独绘制。见 [真实手账研究](docs/TEMPLATE_REFERENCES.md) 和 [底图生成记录](docs/NOTEBOOK_GENERATION.md)。
 - 单张主图、双图拼贴、三张旅行记、四格照片墙；照片与视频混排，每个画框可独立点击替换。
@@ -32,12 +34,12 @@ npm ci
 npm run dev
 ```
 
-打开 <http://127.0.0.1:8798>。Windows 也可双击项目中的 `启动今日成册.bat`，终端窗口需保持打开。
+打开 <http://127.0.0.1:8798>。Windows 也可双击项目中的 `启动口袋日记.bat`，终端窗口需保持打开。
 
 1. 点击“写今天”新建或继续当天日记；也可打开“日历与日记”选择其他日期。
 2. 直接点击书页文字，在对应位置输入；正文编辑保留其他页，内容自动保存。点击画框上传或替换照片、视频。
 3. 用书页旁的贴纸键盘搜索聊天表情、选择心情或上传自己的图片；可以直接粘贴图片，或用 `/贴纸`、`Ctrl/⌘ + ;` 唤出键盘。Unicode 表情可插入文字光标处，图片贴纸则摆放在书页上。
-4. 用“编辑这篇”更换本子、1–4 个影像画框与装饰；拖动贴纸调整位置，再点“完成 · 阅读”。
+4. 用顶部“模板”更换本子或选择 1—4 格照片布局；“编辑这篇”提供完整素材、文字和播放设置。点击纸面空白结束输入，点击另一文本框直接继续编辑。
 5. 用前后页按钮翻阅。画面默认静止完整呈现，想看页内视频时点击播放。
 6. 点击“导出 / 分享”，选择画幅和 PNG / 视频。视频包含当前这篇的全部页，暂不汇编整本日记。
 
@@ -88,7 +90,7 @@ npm run dev -- --host 0.0.0.0
 
 ## 素材与导出限制
 
-| 项目 | v0.3 支持与边界 |
+| 项目 | v0.4 支持与边界 |
 |---|---|
 | 图片 | JPG、PNG、WebP、GIF（GIF 导出为静态画面） |
 | 视频 | MP4、WebM、MOV 容器，实际解码取决于设备，优先 H.264/AAC MP4 |

diff --git a/docs/INTERACTION_DESIGN.md b/docs/INTERACTION_DESIGN.md
@@ -1,0 +1,24 @@
+# 口袋日记：编辑、模板与刷新交互
+
+更新：2026-10-27。产品名由用户从五个候选中选择“口袋日记”；保留 GitHub 仓库地址、IndexedDB 标识和旧备份格式，改名不会迁移或清空日记。
+
+## 参考
+
+- [Canva：添加和编辑文字](https://www.canva.com/help/add-and-edit-text/)：点选文字进入编辑，点击文本框外结束。本项目按用户要求采用单击进入。
+- [Goodnotes：文本工具](https://support.goodnotes.com/hc/en-us/articles/7353727615375-Type-text-with-the-Text-Tool)：纸面文本框操作、点击外部完成，以及文本输入与其他工具的区分。
+- [Canva：使用模板](https://www.canva.com/help/use-templates/)与[更换模板](https://www.canva.com/en_in/help/change-template/)：让模板在编辑器的固定入口与独立面板中可发现，不与示例内容混在一起。
+
+借鉴交互方式，不复制这些产品的代码或素材。
+
+## 当前规则
+
+- 单击标题、正文、批注，在原位置输入；其他文本框仍可点击，直接切换。
+- 单击纸面空白或其他区域结束输入；表情键盘和编辑工具保留当前输入，方便在光标处插入表情。
+- 点击照片/视频框时先结束文字编辑，保留被点击节点直到其操作完成，避免第一下点击被重绘吞掉；视频播放也不会被立即重绘暂停。
+- 顶部常驻“模板”，独立面板区分“本子样式”和“照片布局”。选择后应用并收起；点击外部或 Escape 可关闭。
+- 心情区在照片组下方预留独立空白；照片、画框白边和心情不贴纸页下沿。横竖屏、八款本子和四种拼贴组合由几何测试覆盖。
+- 初次打开或刷新显示加载状态，读取完成后才显示纸面；读取失败提供重试与导入备份，不自动覆盖旧记录。
+- 每个标签页用 sessionStorage 记住日记、页码、手动画幅及阅读/编辑模式。正文与素材仍存 IndexedDB；切到后台会尝试刷新保存队列。
+- 模板、加载和错误状态沿用应用的轻纸色和绿色工具体系；手机保留可见“模板”文字，其余常用工具使用带可访问名称的图标。
+
+离线恢复、真机安装与所有手机编码器兼容仍按实测记录的限制说明，不因本轮界面改动宣称已解决。

diff --git a/docs/VERIFICATION.md b/docs/VERIFICATION.md
@@ -1,4 +1,16 @@
-# v0.3 实测记录
+# v0.4 实测记录
+
+## v0.4 新增验证
+
+- 产品名按用户选择改为“口袋日记 / Pocket Diary”，页面标题、PWA 名称、界面、导出文件前缀与 Windows 启动脚本同步更新，保留旧数据库与备份格式。
+- 25 项自动测试通过；新增遍历八款本子、横竖屏、四种影像布局的心情区安全留白测试。生产构建通过。
+- 实际浏览器连续进行正文 → 标题 → 批注的单击切换，点击纸页中缝空白后输入框立即隐藏，正文保存。
+- 正文编辑状态直接点击第 2 个媒体框，实际上传测试视频成功；再次在编辑状态点击播放，输入结束且视频 `paused=false`、画面可见，没有被文字重绘吞掉。
+- 打开输入表情面板时原位输入仍保持，方便继续插入表情。
+- 顶部“模板”可在阅读状态打开；本子样式与照片布局标签可切换，选择后应用并收起，双图和三图页数正确重排。
+- 18 段长文、奶油本、竖屏第 2/5 页，刷新后恢复同一日记、同一模板、竖屏及第 2/5 页；切入完整编辑模式后刷新，编辑模式与正文可恢复。
+- 390×844 手机视口中“模板”文字常驻可见，面板可滚动选取八款本子，文档未横向溢出；不是手机真机测试。
+- 读取失败的重试/导入界面为已实现分支，本轮未通过浏览器注入故障验证；IndexedDB 保存中断与迁移失败相关逻辑由已有测试覆盖。
 
 ## v0.3 新增验证
 

diff --git a/DESIGN.md b/DESIGN.md
@@ -1,4 +1,4 @@
-# 今日成册的设计
+# 口袋日记的设计
 
 界面是桌上的手账工作室。左侧放素材和文字，右侧直接看一本打开的日记；模板作为桌面下方的纸样陈列。
 
